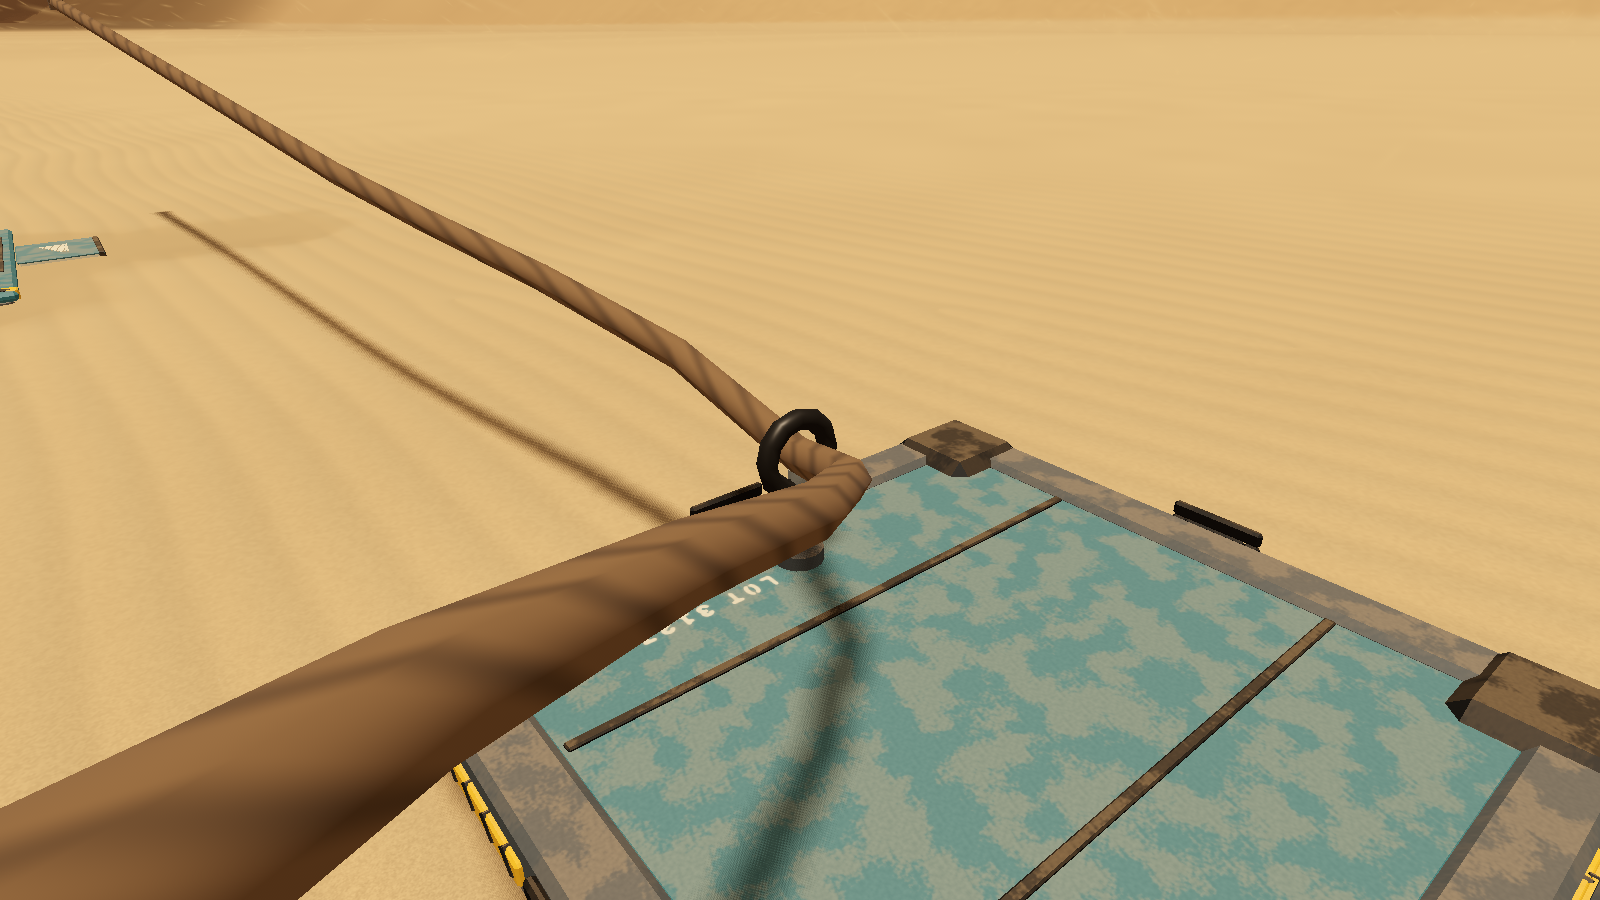
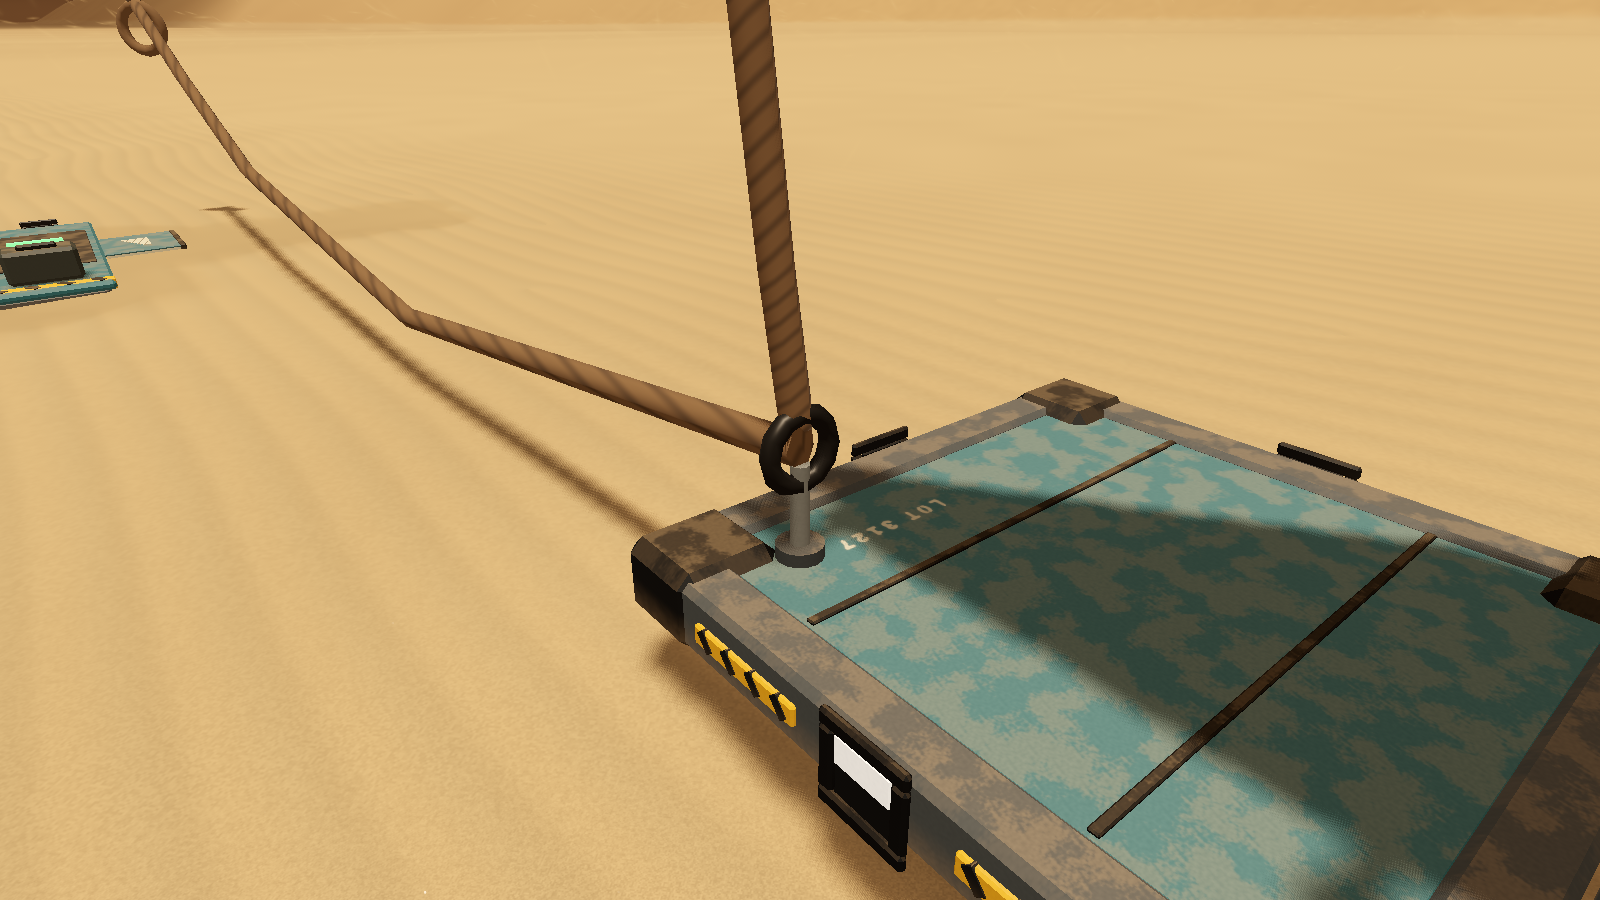
Teach the physical hoist with gameplay pictures and compare both yacht keels

diff --git a/docs/prd/menus-and-ui.md b/docs/prd/menus-and-ui.md
@@ -668,3 +668,15 @@ Call the delivery craft “the drone” for now to avoid confusion with the
 Surveyor origin and its Guide. Rename player-facing craft descriptions and
 provide a drone console command; keep old technical ids and command aliases
 compatible. This renames no starter kit.
+
+
+### Sailing hoist picture (2026-10-20; focused checks pass)
+
+The sailing booklet now has five short picture pages, with a new first page
+showing the real mounted hand winch and its halyard. Its caption renders the
+hoist/lower bindings and explains the brake. The wind, sheet and guide photos
+were recaptured from the updated actual rig; the unchanged board model retains
+its existing photograph. All five pages were inspected on the GPU at 1280×720:
+533×300 images and two-line 20 px captions, with normal navigation. The
+booklet's menu/pickup/reader check passes (6 s). Human teaching acceptance
+remains a playtest gate.

diff --git a/docs/prd/movement.md b/docs/prd/movement.md
@@ -1760,3 +1760,11 @@ the supplied line. Generated salvage can provide the same winch so a player
 can assemble the mechanism outside a dev scenario. Refresh the illustrated
 sailing controls to include hoisting at the wheel.
 
+
+
+The authored hoists and revised layouts pass the actual aboard-motion/rate
+check (Sail 11, 70 s) and Varran handling check (Sail 13, 32 s). Each scenario
+tracks its supplied halyard for cleanup; Varran counts and saves its fourth
+line independently from the three waist lines. These checks do not establish
+unassisted straight-line handling. The yacht's keel/no-keel comparison now
+removes both physical keels rather than leaving one in its control fixture.
